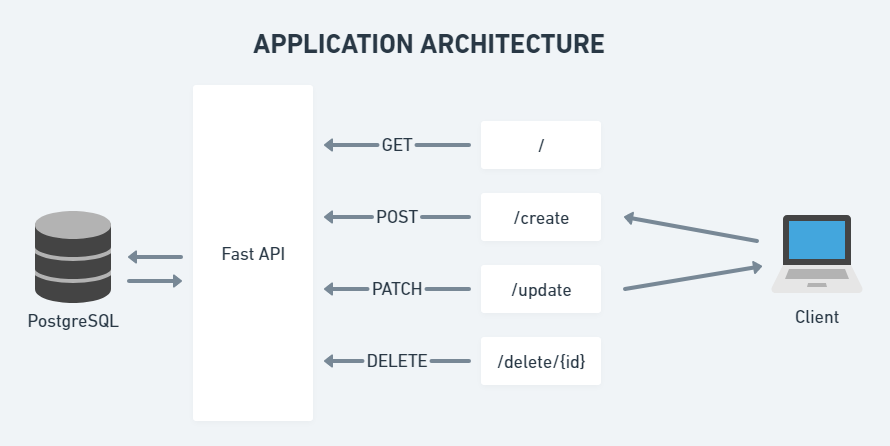
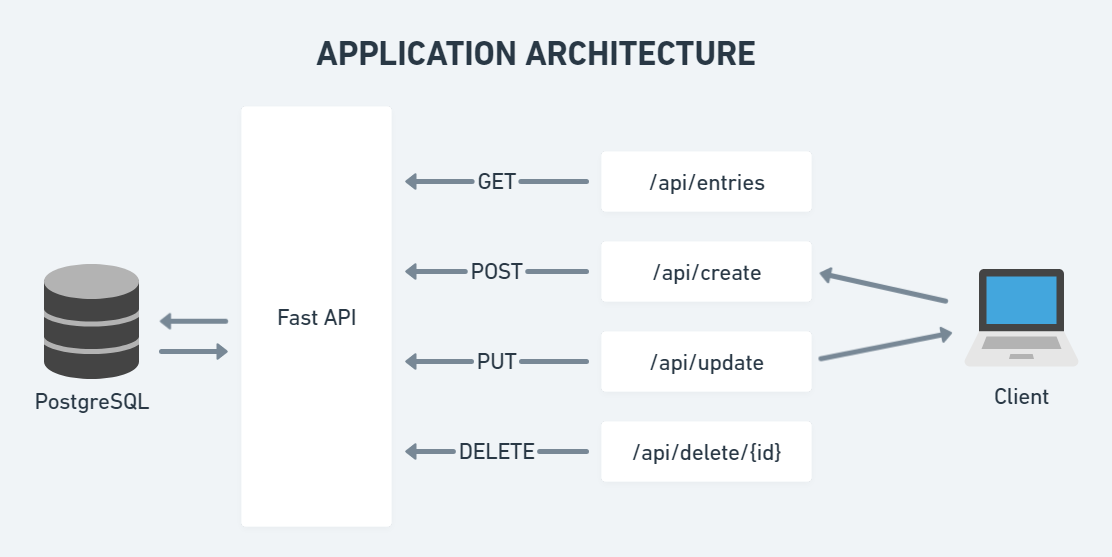
README updated and changed img

diff --git a/README.md b/README.md
@@ -21,25 +21,17 @@ In the project directory, you can run:
 **Using docker**
 
 ``` bash
-docker compose up
+docker-compose up --build --remove-orphans
 ```
+
+`Info: Above command will build the docker image and start the application.`
 
 Runs the app in the development mode.\
 Open [http://localhost:3000](http://localhost:3000) to view it in your browser.
 
-
+You can also view the **Open API Spec** for this app [here](http://127.0.0.1:8000/docs)
 
 ## API Design
-
-For delete API we need a unique value like **ID** in the data with which we can identify the record we want to delete.
-
-`/api/entries` endpoint to fetch the all the data from PostgreSQL DB sorted by position.
-
-`/api/create` will be the endpoint which will add the new data and in the request we will send the new data we want to add to DB.
-
-`/api/update` will be the endpoint which will update the existing data in DB and in the request we will send the data we want to update.
-
-`/api/delete/{id}` will be the endpoint which will delete the record using **ID** and in the request we will send the **ID** of the record we want to delete.
 
 ### UPDATED DATA FORMAT:
 ``` bash
@@ -52,3 +44,12 @@ For delete API we need a unique value like **ID** in the data with which we can 
 }
 ```
 
+For delete API we need a unique value like **ID** in the data with which we can identify the record we want to delete.
+
+`/api/entries` endpoint to fetch the all the data from PostgreSQL DB sorted by position.
+
+`/api/create` will be the endpoint which will add the new data and in the request we will send the new data we want to add to DB.
+
+`/api/update` will be the endpoint which will update the existing data in DB and in the request we will send the data we want to update.
+
+`/api/delete/{id}` will be the endpoint which will delete the record using **ID** and in the request we will send the **ID** of the record we want to delete.
